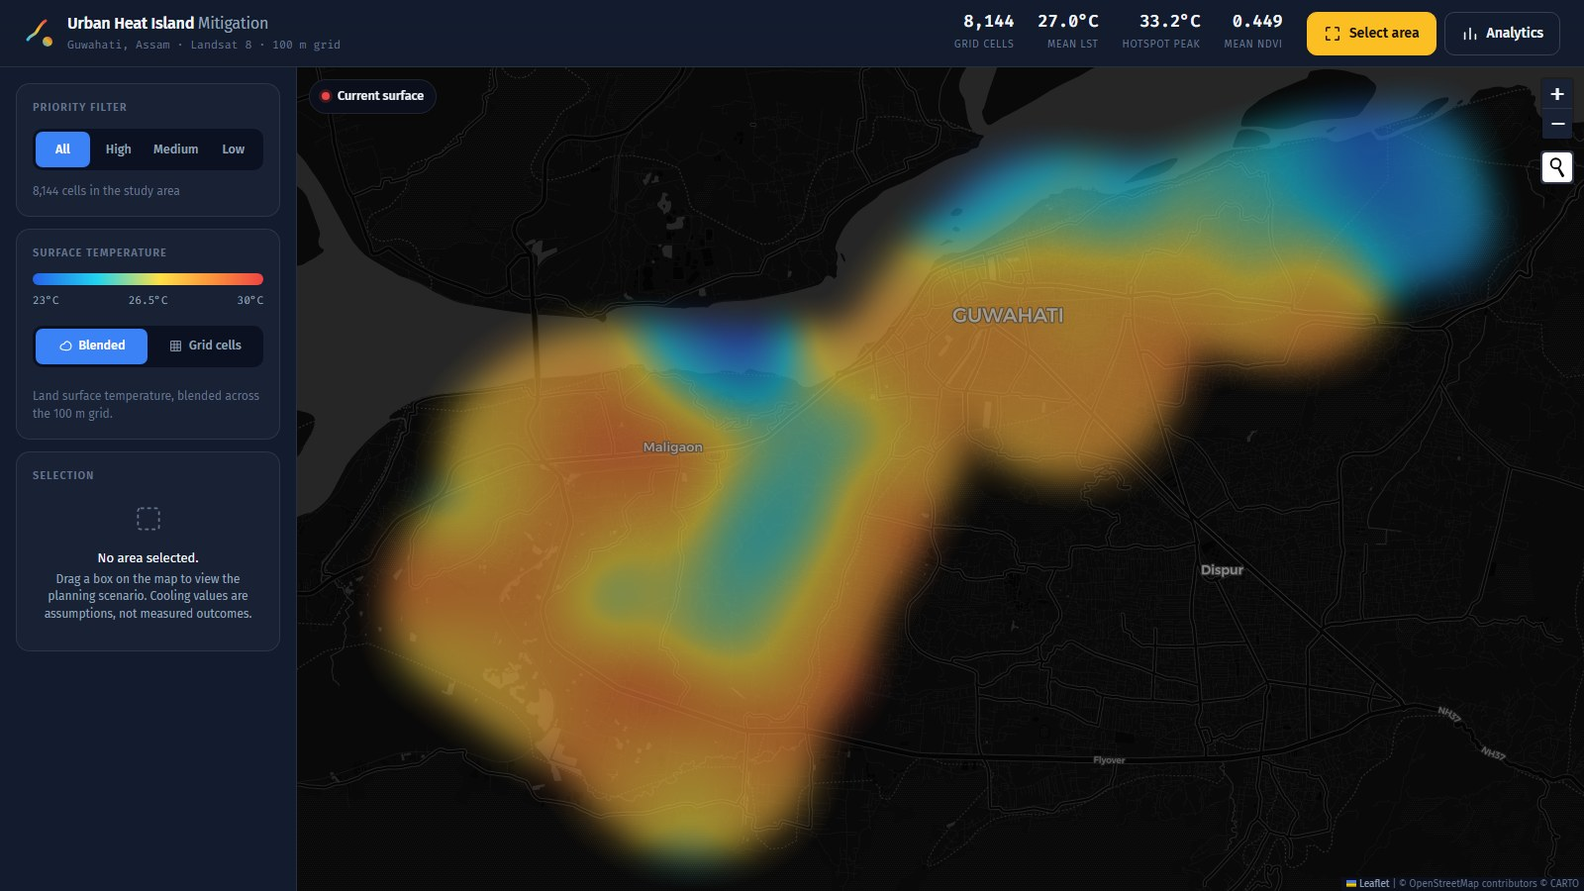
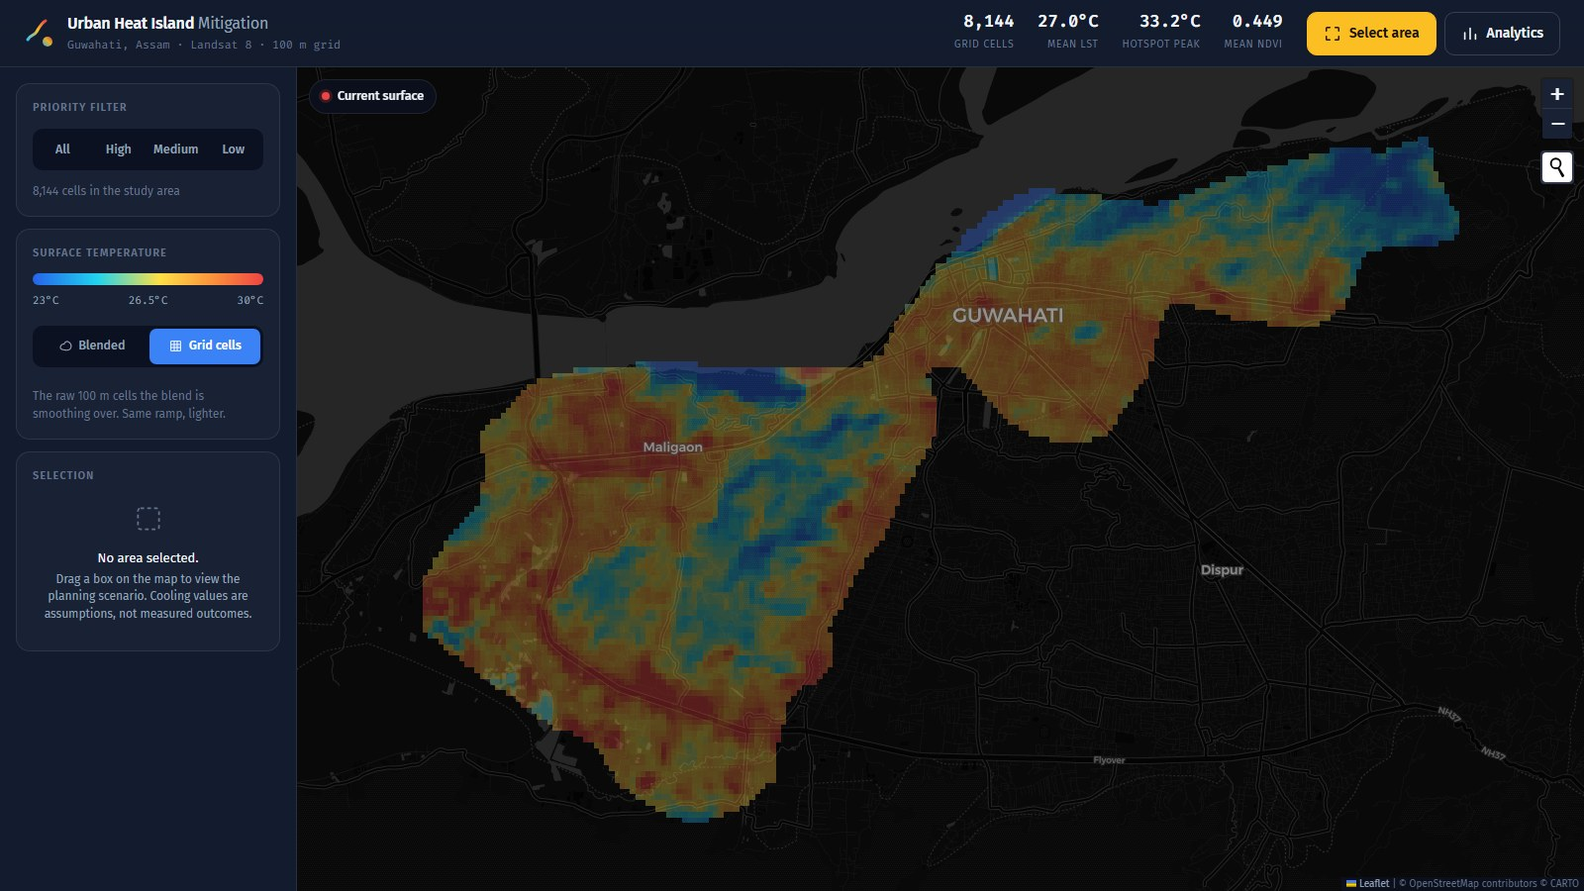
Fix grid-view seams; enrich the diagram; use grid screenshots
heatField: the grid view drew 1 px transparent columns roughly every 22 px,
so the basemap showed through as dark vertical seams across a field that
should be continuous. Cause was Leaflet, not the lattice: both
latLngToContainerPoint and the cell-size probe built on it call _round()
internally, so cw arrived as a whole number and the fraction that decides
whether a given pair of neighbours sits 5 or 6 px apart was already gone.
Measure with map.project() instead, which does not round, and round the
width up so cells may overlap by a pixel. Overlap is free here - the fills
are opaque within the layer, composited once at FIELD.gridOpacity - while
a gap is not. Verified: zero dark columns remain across the study area.

Diagram: each node now carries three lines rather than two, so it states
the sensors, the model's five features, the honest R2, and the funnel -
8,144 cells to 4,157 eligible to 249 funded - on the arrows and in the
Decision Support node. The dashboard node names the Street View link.

Deck: both screenshots recaptured in grid mode, so the slides show real
100 m cells instead of a smoothed cloud. Safety and trust gains a fourth
card for ground-truth verification, and the demo caption points at it.

Changed region(s): [[0.2188, 0.0933, 0.9688, 0.9956], [0.0, 0.3422, 0.1875, 0.4667], [0.0, 0.1244, 0.0625, 0.1867]]

diff --git a/presentation/architecture.html b/presentation/architecture.html
@@ -2,28 +2,23 @@
 <title>Pipeline architecture — Urban Heat Island Mitigation</title>
 <link href="https://fonts.googleapis.com/css2?family=Fira+Code:wght@400;500;600&family=Fira+Sans:wght@400;500;600&display=swap" rel="stylesheet">
 <style>
-  :root {
-    --paper:  #0B1120;
-    --ink:    #F1F5F9;
-    --muted:  #94A3B8;
-    --soft:   #64748B;
-    --accent: #FBBF24;
-  }
-  html, body { margin: 0; padding: 0; background: var(--paper); }
+  html, body { margin: 0; padding: 0; background: #0B1120; }
   body { display: flex; align-items: center; justify-content: center; min-height: 100vh; }
-  svg { display: block; width: 1440px; height: 560px; }
+  svg { display: block; width: 1440px; height: 580px; }
 </style>
 
 <!-- Architecture diagram, diagram-design system, skinned to the dashboard palette
      (frontend/style.css tokens). Fira Sans / Fira Code stand in for Geist so the
      diagram matches the deck and the dashboard it describes.
 
-     The canvas is 1440x560 (~2.6:1) to fit the deck's content area under the
-     slide heading without letterboxing. -->
-<svg viewBox="0 0 1440 560" role="img" aria-labelledby="uhi-arch-title uhi-arch-desc"
+     Each node carries three lines: what it is, what it runs on, and the number a
+     judge would otherwise have to ask for. The arrows carry the funnel —
+     8,144 cells in, 4,157 eligible, 249 funded — so the drop-off is legible
+     without a second chart. Canvas is ~2.5:1 to fit the deck's content area. -->
+<svg viewBox="0 0 1440 580" role="img" aria-labelledby="uhi-arch-title uhi-arch-desc"
      xmlns="http://www.w3.org/2000/svg">
   <title id="uhi-arch-title">Urban Heat Island pipeline architecture</title>
-  <desc id="uhi-arch-desc">Remote sensing feeds two branches: a machine-learning branch that ends in a metrics report nothing downstream consumes, and a decision-support branch whose ranked, costed output drives the dashboard. Decision support, not the model, produces the recommendation.</desc>
+  <desc id="uhi-arch-desc">Remote sensing feeds two branches: a machine-learning branch that ends in a metrics report used only as a diagnostic, and a decision-support branch whose land-cover gate narrows 8,144 cells to 4,157 eligible and 249 funded, driving the dashboard. Decision support, not the model, produces the recommendation.</desc>
 
   <defs>
     <marker id="arrow" markerWidth="8" markerHeight="6" refX="7" refY="3" orient="auto">
@@ -37,91 +32,96 @@
     </marker>
   </defs>
 
-  <rect width="1440" height="560" fill="#0B1120"/>
+  <rect width="1440" height="580" fill="#0B1120"/>
 
   <!-- ============ arrows first (z-order: lines behind boxes) ============ -->
 
-  <!-- Remote Sensing -> Machine Learning. The two exits are fanned 48px apart so
-       neither connector hides the other. -->
-  <path d="M 248,256 H 536 Q 544,256 544,248 V 168" fill="none" stroke="#94A3B8" stroke-width="1.2" marker-end="url(#arrow)"/>
-  <rect x="356" y="236" width="72" height="14" rx="2" fill="#0B1120"/>
-  <text x="392" y="247" fill="#64748B" font-size="10" font-family="'Fira Code', monospace" text-anchor="middle" letter-spacing="0.08em">FEATURES</text>
+  <!-- Remote Sensing -> Machine Learning. Exits are fanned 48 px apart so neither
+       connector hides the other. -->
+  <path d="M 264,268 H 552 Q 560,268 560,260 V 176" fill="none" stroke="#94A3B8" stroke-width="1.2" marker-end="url(#arrow)"/>
+  <rect x="360" y="248" width="96" height="14" rx="2" fill="#0B1120"/>
+  <text x="408" y="259" fill="#64748B" font-size="10" font-family="'Fira Code', monospace" text-anchor="middle" letter-spacing="0.08em">5 FEATURES</text>
 
   <!-- Remote Sensing -> Decision Support -->
-  <path d="M 248,304 H 536 Q 544,304 544,312 V 344" fill="none" stroke="#94A3B8" stroke-width="1.2" marker-end="url(#arrow)"/>
-  <rect x="348" y="284" width="88" height="14" rx="2" fill="#0B1120"/>
-  <text x="392" y="295" fill="#64748B" font-size="10" font-family="'Fira Code', monospace" text-anchor="middle" letter-spacing="0.08em">GRID + LAND</text>
+  <path d="M 264,316 H 552 Q 560,316 560,324 V 368" fill="none" stroke="#94A3B8" stroke-width="1.2" marker-end="url(#arrow)"/>
+  <rect x="356" y="296" width="104" height="14" rx="2" fill="#0B1120"/>
+  <text x="408" y="307" fill="#94A3B8" font-size="10" font-family="'Fira Code', monospace" text-anchor="middle" letter-spacing="0.08em">8,144 CELLS</text>
 
-  <!-- Machine Learning -> metrics.json (dashed: reported, not consumed) -->
-  <path d="M 648,116 H 792" fill="none" stroke="#64748B" stroke-width="1" stroke-dasharray="4,3" marker-end="url(#arrow-soft)"/>
-  <rect x="688" y="96" width="64" height="14" rx="2" fill="#0B1120"/>
-  <text x="720" y="107" fill="#64748B" font-size="10" font-family="'Fira Code', monospace" text-anchor="middle" letter-spacing="0.08em">SCORES</text>
+  <!-- Machine Learning -> metrics.json (dashed: diagnostic, not consumed) -->
+  <path d="M 672,116 H 816" fill="none" stroke="#64748B" stroke-width="1" stroke-dasharray="4,3" marker-end="url(#arrow-soft)"/>
+  <rect x="712" y="96" width="64" height="14" rx="2" fill="#0B1120"/>
+  <text x="744" y="107" fill="#64748B" font-size="10" font-family="'Fira Code', monospace" text-anchor="middle" letter-spacing="0.08em">SCORES</text>
 
   <!-- Decision Support -> Dashboard (accent: the load-bearing hand-off) -->
-  <path d="M 648,396 H 792" fill="none" stroke="#FBBF24" stroke-width="1.4" marker-end="url(#arrow-accent)"/>
-  <rect x="684" y="376" width="72" height="14" rx="2" fill="#0B1120"/>
-  <text x="720" y="387" fill="#FBBF24" font-size="10" font-family="'Fira Code', monospace" text-anchor="middle" letter-spacing="0.08em">RANKING</text>
+  <path d="M 672,428 H 816" fill="none" stroke="#FBBF24" stroke-width="1.4" marker-end="url(#arrow-accent)"/>
+  <rect x="696" y="408" width="96" height="14" rx="2" fill="#0B1120"/>
+  <text x="744" y="419" fill="#FBBF24" font-size="10" font-family="'Fira Code', monospace" text-anchor="middle" letter-spacing="0.08em">249 FUNDED</text>
 
   <!-- dead-end stub after metrics.json -->
-  <path d="M 1000,116 H 1060" fill="none" stroke="#64748B" stroke-width="1" stroke-dasharray="4,3"/>
-  <line x1="1064" y1="100" x2="1064" y2="132" stroke="#64748B" stroke-width="1.6"/>
+  <path d="M 1040,116 H 1100" fill="none" stroke="#64748B" stroke-width="1" stroke-dasharray="4,3"/>
+  <line x1="1104" y1="100" x2="1104" y2="132" stroke="#64748B" stroke-width="1.6"/>
 
   <!-- ============ nodes ============ -->
 
   <!-- Remote Sensing -->
-  <rect x="40" y="228" width="208" height="104" rx="8" fill="#0B1120"/>
-  <rect x="40" y="228" width="208" height="104" rx="8" fill="#131C2E" stroke="rgba(255,255,255,0.16)" stroke-width="1"/>
-  <rect x="52" y="240" width="44" height="16" rx="2" fill="none" stroke="rgba(255,255,255,0.22)" stroke-width="0.8"/>
-  <text x="74" y="251" fill="#94A3B8" font-size="9" font-family="'Fira Code', monospace" text-anchor="middle" letter-spacing="0.10em">DATA</text>
-  <text x="144" y="288" fill="#F1F5F9" font-size="16" font-weight="600" font-family="'Fira Sans', sans-serif" text-anchor="middle">Remote Sensing</text>
-  <text x="144" y="312" fill="#94A3B8" font-size="11" font-family="'Fira Code', monospace" text-anchor="middle">Earth Engine · QGIS</text>
+  <rect x="40" y="232" width="224" height="120" rx="8" fill="#0B1120"/>
+  <rect x="40" y="232" width="224" height="120" rx="8" fill="#131C2E" stroke="rgba(255,255,255,0.16)" stroke-width="1"/>
+  <rect x="52" y="244" width="44" height="16" rx="2" fill="none" stroke="rgba(255,255,255,0.22)" stroke-width="0.8"/>
+  <text x="74" y="255" fill="#94A3B8" font-size="9" font-family="'Fira Code', monospace" text-anchor="middle" letter-spacing="0.10em">DATA</text>
+  <text x="152" y="288" fill="#F1F5F9" font-size="16" font-weight="600" font-family="'Fira Sans', sans-serif" text-anchor="middle">Remote Sensing</text>
+  <text x="152" y="310" fill="#94A3B8" font-size="11" font-family="'Fira Code', monospace" text-anchor="middle">Landsat 8 · ESA WorldCover</text>
+  <text x="152" y="330" fill="#64748B" font-size="10" font-family="'Fira Code', monospace" text-anchor="middle">Earth Engine · QGIS · 100 m</text>
 
   <!-- Machine Learning -->
-  <rect x="440" y="64" width="208" height="104" rx="8" fill="#0B1120"/>
-  <rect x="440" y="64" width="208" height="104" rx="8" fill="#131C2E" stroke="rgba(255,255,255,0.16)" stroke-width="1"/>
-  <rect x="452" y="76" width="52" height="16" rx="2" fill="none" stroke="rgba(255,255,255,0.22)" stroke-width="0.8"/>
-  <text x="478" y="87" fill="#94A3B8" font-size="9" font-family="'Fira Code', monospace" text-anchor="middle" letter-spacing="0.10em">MODEL</text>
-  <text x="544" y="124" fill="#F1F5F9" font-size="16" font-weight="600" font-family="'Fira Sans', sans-serif" text-anchor="middle">Machine Learning</text>
-  <text x="544" y="148" fill="#94A3B8" font-size="11" font-family="'Fira Code', monospace" text-anchor="middle">RandomForest</text>
+  <rect x="448" y="56" width="224" height="120" rx="8" fill="#0B1120"/>
+  <rect x="448" y="56" width="224" height="120" rx="8" fill="#131C2E" stroke="rgba(255,255,255,0.16)" stroke-width="1"/>
+  <rect x="460" y="68" width="52" height="16" rx="2" fill="none" stroke="rgba(255,255,255,0.22)" stroke-width="0.8"/>
+  <text x="486" y="79" fill="#94A3B8" font-size="9" font-family="'Fira Code', monospace" text-anchor="middle" letter-spacing="0.10em">MODEL</text>
+  <text x="560" y="112" fill="#F1F5F9" font-size="16" font-weight="600" font-family="'Fira Sans', sans-serif" text-anchor="middle">Machine Learning</text>
+  <text x="560" y="134" fill="#94A3B8" font-size="11" font-family="'Fira Code', monospace" text-anchor="middle">RandomForest</text>
+  <text x="560" y="154" fill="#64748B" font-size="10" font-family="'Fira Code', monospace" text-anchor="middle">NDBI · NDVI · veg · lat · lon</text>
 
   <!-- metrics.json (terminates) -->
-  <rect x="792" y="64" width="208" height="104" rx="8" fill="#0B1120"/>
-  <rect x="792" y="64" width="208" height="104" rx="8" fill="rgba(241,245,249,0.02)" stroke="rgba(255,255,255,0.10)" stroke-width="1" stroke-dasharray="4,3"/>
-  <rect x="804" y="76" width="56" height="16" rx="2" fill="none" stroke="rgba(255,255,255,0.16)" stroke-width="0.8"/>
-  <text x="832" y="87" fill="#64748B" font-size="9" font-family="'Fira Code', monospace" text-anchor="middle" letter-spacing="0.10em">REPORT</text>
-  <text x="896" y="124" fill="#94A3B8" font-size="16" font-weight="600" font-family="'Fira Sans', sans-serif" text-anchor="middle">metrics.json</text>
-  <text x="896" y="148" fill="#64748B" font-size="10" font-family="'Fira Code', monospace" text-anchor="middle">R² 0.90 random · 0.51 blocked</text>
+  <rect x="816" y="56" width="224" height="120" rx="8" fill="#0B1120"/>
+  <rect x="816" y="56" width="224" height="120" rx="8" fill="rgba(241,245,249,0.02)" stroke="rgba(255,255,255,0.10)" stroke-width="1" stroke-dasharray="4,3"/>
+  <rect x="828" y="68" width="56" height="16" rx="2" fill="none" stroke="rgba(255,255,255,0.16)" stroke-width="0.8"/>
+  <text x="856" y="79" fill="#64748B" font-size="9" font-family="'Fira Code', monospace" text-anchor="middle" letter-spacing="0.10em">REPORT</text>
+  <text x="928" y="112" fill="#94A3B8" font-size="16" font-weight="600" font-family="'Fira Sans', sans-serif" text-anchor="middle">metrics.json</text>
+  <text x="928" y="134" fill="#94A3B8" font-size="11" font-family="'Fira Code', monospace" text-anchor="middle">R² 0.51 spatial-block</text>
+  <text x="928" y="154" fill="#64748B" font-size="10" font-family="'Fira Code', monospace" text-anchor="middle">0.90 random — the leaky one</text>
 
   <!-- Decision Support — FOCAL -->
-  <rect x="440" y="344" width="208" height="104" rx="8" fill="#0B1120"/>
-  <rect x="440" y="344" width="208" height="104" rx="8" fill="rgba(251,191,36,0.10)" stroke="#FBBF24" stroke-width="1.2"/>
-  <rect x="452" y="356" width="48" height="16" rx="2" fill="none" stroke="rgba(251,191,36,0.45)" stroke-width="0.8"/>
-  <text x="476" y="367" fill="#FBBF24" font-size="9" font-family="'Fira Code', monospace" text-anchor="middle" letter-spacing="0.10em">RULES</text>
-  <text x="544" y="404" fill="#F1F5F9" font-size="16" font-weight="600" font-family="'Fira Sans', sans-serif" text-anchor="middle">Decision Support</text>
-  <text x="544" y="428" fill="#94A3B8" font-size="11" font-family="'Fira Code', monospace" text-anchor="middle">land-cover gate · cost</text>
+  <rect x="448" y="368" width="224" height="120" rx="8" fill="#0B1120"/>
+  <rect x="448" y="368" width="224" height="120" rx="8" fill="rgba(251,191,36,0.10)" stroke="#FBBF24" stroke-width="1.2"/>
+  <rect x="460" y="380" width="48" height="16" rx="2" fill="none" stroke="rgba(251,191,36,0.45)" stroke-width="0.8"/>
+  <text x="484" y="391" fill="#FBBF24" font-size="9" font-family="'Fira Code', monospace" text-anchor="middle" letter-spacing="0.10em">RULES</text>
+  <text x="560" y="424" fill="#F1F5F9" font-size="16" font-weight="600" font-family="'Fira Sans', sans-serif" text-anchor="middle">Decision Support</text>
+  <text x="560" y="446" fill="#94A3B8" font-size="11" font-family="'Fira Code', monospace" text-anchor="middle">land-cover gate · cost · rank</text>
+  <text x="560" y="466" fill="#FBBF24" font-size="10" font-family="'Fira Code', monospace" text-anchor="middle">8,144 → 4,157 eligible → 249</text>
 
   <!-- Dashboard -->
-  <rect x="792" y="344" width="208" height="104" rx="8" fill="#0B1120"/>
-  <rect x="792" y="344" width="208" height="104" rx="8" fill="#131C2E" stroke="rgba(255,255,255,0.16)" stroke-width="1"/>
-  <rect x="804" y="356" width="32" height="16" rx="2" fill="none" stroke="rgba(255,255,255,0.22)" stroke-width="0.8"/>
-  <text x="820" y="367" fill="#94A3B8" font-size="9" font-family="'Fira Code', monospace" text-anchor="middle" letter-spacing="0.10em">UI</text>
-  <text x="896" y="404" fill="#F1F5F9" font-size="16" font-weight="600" font-family="'Fira Sans', sans-serif" text-anchor="middle">Dashboard</text>
-  <text x="896" y="428" fill="#94A3B8" font-size="11" font-family="'Fira Code', monospace" text-anchor="middle">Leaflet · heat field</text>
+  <rect x="816" y="368" width="224" height="120" rx="8" fill="#0B1120"/>
+  <rect x="816" y="368" width="224" height="120" rx="8" fill="#131C2E" stroke="rgba(255,255,255,0.16)" stroke-width="1"/>
+  <rect x="828" y="380" width="32" height="16" rx="2" fill="none" stroke="rgba(255,255,255,0.22)" stroke-width="0.8"/>
+  <text x="844" y="391" fill="#94A3B8" font-size="9" font-family="'Fira Code', monospace" text-anchor="middle" letter-spacing="0.10em">UI</text>
+  <text x="928" y="424" fill="#F1F5F9" font-size="16" font-weight="600" font-family="'Fira Sans', sans-serif" text-anchor="middle">Dashboard</text>
+  <text x="928" y="446" fill="#94A3B8" font-size="11" font-family="'Fira Code', monospace" text-anchor="middle">blended field · grid cells</text>
+  <text x="928" y="466" fill="#34D399" font-size="10" font-family="'Fira Code', monospace" text-anchor="middle">every cell → Google Street View</text>
 
   <!-- ============ editorial annotation ============ -->
-  <text x="1088" y="108" fill="#94A3B8" font-size="15" font-style="italic" font-family="Georgia, 'Times New Roman', serif">screening signal —</text>
-  <text x="1088" y="132" fill="#94A3B8" font-size="15" font-style="italic" font-family="Georgia, 'Times New Roman', serif">not the decision path</text>
+  <text x="1128" y="108" fill="#94A3B8" font-size="15" font-style="italic" font-family="Georgia, 'Times New Roman', serif">screening signal —</text>
+  <text x="1128" y="132" fill="#94A3B8" font-size="15" font-style="italic" font-family="Georgia, 'Times New Roman', serif">not the decision path</text>
 
   <!-- ============ legend strip ============ -->
-  <line x1="40" y1="492" x2="1400" y2="492" stroke="rgba(255,255,255,0.10)" stroke-width="0.8"/>
-  <text x="40" y="520" fill="#64748B" font-size="10" font-family="'Fira Code', monospace" letter-spacing="0.14em">LEGEND</text>
+  <line x1="40" y1="512" x2="1400" y2="512" stroke="rgba(255,255,255,0.10)" stroke-width="0.8"/>
+  <text x="40" y="540" fill="#64748B" font-size="10" font-family="'Fira Code', monospace" letter-spacing="0.14em">LEGEND</text>
 
-  <line x1="132" y1="516" x2="172" y2="516" stroke="#94A3B8" stroke-width="1.2" marker-end="url(#arrow)"/>
-  <text x="184" y="520" fill="#94A3B8" font-size="11" font-family="'Fira Sans', sans-serif">The decision path</text>
+  <line x1="132" y1="536" x2="172" y2="536" stroke="#94A3B8" stroke-width="1.2" marker-end="url(#arrow)"/>
+  <text x="184" y="540" fill="#94A3B8" font-size="11" font-family="'Fira Sans', sans-serif">The decision path</text>
 
-  <line x1="368" y1="516" x2="408" y2="516" stroke="#64748B" stroke-width="1" stroke-dasharray="4,3" marker-end="url(#arrow-soft)"/>
-  <text x="420" y="520" fill="#94A3B8" font-size="11" font-family="'Fira Sans', sans-serif">Diagnostic — reported, not consumed</text>
+  <line x1="368" y1="536" x2="408" y2="536" stroke="#64748B" stroke-width="1" stroke-dasharray="4,3" marker-end="url(#arrow-soft)"/>
+  <text x="420" y="540" fill="#94A3B8" font-size="11" font-family="'Fira Sans', sans-serif">Diagnostic — reported, not consumed</text>
 
-  <rect x="760" y="508" width="16" height="16" rx="3" fill="rgba(251,191,36,0.10)" stroke="#FBBF24" stroke-width="1.2"/>
-  <text x="788" y="520" fill="#94A3B8" font-size="11" font-family="'Fira Sans', sans-serif">Auditable rule + cost engine — every recommendation traceable</text>
+  <rect x="760" y="528" width="16" height="16" rx="3" fill="rgba(251,191,36,0.10)" stroke="#FBBF24" stroke-width="1.2"/>
+  <text x="788" y="540" fill="#94A3B8" font-size="11" font-family="'Fira Sans', sans-serif">Auditable rule + cost engine — every recommendation traceable to a rule and a rate</text>
 </svg>

diff --git a/frontend/js/heatField.js b/frontend/js/heatField.js
@@ -175,24 +175,44 @@ const HeatField = L.Layer.extend({
     const cells = this._cells;
 
     /* The lattice is regular, so one probe sizes every box and each cell then
-       costs a single projection instead of two. */
+       costs a single projection instead of two.
+
+       map.project(), not latLngToContainerPoint(): the latter calls _round() on
+       the way through, so measuring a cell with it yields a whole number of
+       pixels and throws away the fraction that decides whether a given pair of
+       neighbours sits 5 or 6 px apart. */
     const c0 = cells[0];
-    const tl0 = map.latLngToContainerPoint(L.latLng(c0.bounds[1][0], c0.bounds[0][1]));
-    const br0 = map.latLngToContainerPoint(L.latLng(c0.bounds[0][0], c0.bounds[1][1]));
+    const tl0 = map.project(L.latLng(c0.bounds[1][0], c0.bounds[0][1]));
+    const br0 = map.project(L.latLng(c0.bounds[0][0], c0.bounds[1][1]));
     const cw = Math.max(1, br0.x - tl0.x);
     const ch = Math.max(1, br0.y - tl0.y);
 
     /* Below ~7 px the gap between boxes is most of the box, so the grid reads as
        a mesh of lines rather than a temperature map. Butt the cells together
-       instead and let the colour carry it. */
+       instead and let the colour carry it; above it, inset by a pixel so the
+       lattice is legible as a lattice. */
     const spaced = Math.min(cw, ch) >= 7;
-    const fw = spaced ? cw - 1 : cw + 0.5;
-    const fh = spaced ? ch - 1 : ch + 0.5;
+
+    /* Round UP when butting cells together, and accept up to a pixel of overlap.
+       Leaflet's latLngToContainerPoint calls _round() internally, so p.x arrives
+       already snapped to an integer and the true fractional position is gone.
+       Neighbouring cells therefore step by either floor(cw) or ceil(cw) px while
+       a fixed-width rect can only be one of the two — every time the fraction
+       accumulates past a pixel, the wider step leaves a one-pixel hole and the
+       basemap shows through. Those holes line up into vertical seams across the
+       field (measured: every ~22 px at city zoom, cells being ~5.2 px).
+       Overlapping is free here because the fills are opaque within the layer —
+       the canvas is composited once, at FIELD.gridOpacity — so a cell painted
+       over its neighbour's edge changes nothing but which colour wins on that
+       boundary pixel. */
+    const fw = spaced ? Math.max(1, Math.round(cw) - 1) : Math.ceil(cw);
+    const fh = spaced ? Math.max(1, Math.round(ch) - 1) : Math.ceil(ch);
 
     for (const cell of cells) {
       const p = map.latLngToContainerPoint(L.latLng(cell.bounds[1][0], cell.bounds[0][1]));
-      const x = p.x + padX, y = p.y + padY;
-      if (x + cw < 0 || y + ch < 0 || x > w || y > h) continue;
+      const x = Math.round(p.x + padX);
+      const y = Math.round(p.y + padY);
+      if (x + fw < 0 || y + fh < 0 || x > w || y > h) continue;
       const rgb = rampColor(normTemp(cell.temp));
       ctx.fillStyle = `rgb(${rgb[0]},${rgb[1]},${rgb[2]})`;
       ctx.fillRect(x, y, fw, fh);

diff --git a/presentation/build_deck.py b/presentation/build_deck.py
@@ -417,8 +417,8 @@ def slide_demo(prs, f, n, total):
                              width=int(pic_w), height=int(pic_h))
 
     text(s, MARGIN, Inches(6.46), Inches(11.9), Inches(0.4),
-         [("Current surface on the left, planning scenario on the right — with the "
-           "selection's cell count, mean temperature and cost read out live.",
+         [("Shown in grid mode — every square is one real 100 m cell. Click any of "
+           "them for its place name and a Google Street View link.",
            13, MUTED, False, UI)], align=PP_ALIGN.CENTER)
     footer(s, n, total, link=LINKS["dashboard"], link_label="try it live")
 
@@ -430,28 +430,31 @@ def slide_safety(prs, f, n, total):
 
     blocks = [
         ("NO WORK ON WATER OR WETLAND", SUCCESS,
-         f"{FIGURES['excluded_water']} water and wetland cells are excluded in code, "
-         "not by convention. ESA WorldCover land cover gates every measure."),
+         f"{FIGURES['excluded_water']} water and wetland cells excluded in code, not "
+         "by convention. ESA WorldCover gates every measure."),
         ("NO PLANTING ON EXISTING CANOPY", SUCCESS,
-         f"{FIGURES['excluded_green']} cells already classified as tree cover receive "
-         "no planting recommendation. The gate is asserted by tests."),
+         f"{FIGURES['excluded_green']} cells already classified as tree cover get no "
+         "planting recommendation. The gate is asserted by tests."),
+        ("CHECK IT ON THE GROUND", ACCENT,
+         "Every cell links straight to Google Street View at its own coordinates, "
+         "with the place name and the 100 m box it covers."),
         ("REPRODUCIBLE AND OPEN", PRIMARY,
          f"{FIGURES['tests']} passing tests. CI regenerates every artefact and fails "
-         "if a committed copy differs. MIT licensed, data attributed in NOTICE.md."),
+         "if a committed copy differs. MIT licensed."),
     ]
-    w = Inches(3.76)
+    w, gap = Inches(2.78), Inches(0.26)
     for i, (label, colour, body) in enumerate(blocks):
-        x = MARGIN + (w + Inches(0.31)) * i
+        x = MARGIN + (w + gap) * i
         card(s, x, Inches(2.5), w, Inches(2.72), fill=SURFACE)
         tab = s.shapes.add_shape(MSO_SHAPE.RECTANGLE, x, Inches(2.5), Inches(0.05), Inches(2.72))
         tab.fill.solid()
         tab.fill.fore_color.rgb = colour
         tab.line.fill.background()
         tab.shadow.inherit = False
-        text(s, x + Inches(0.34), Inches(2.8), w - Inches(0.68), Inches(0.5),
-             [(label, 10, colour, True, DATA)], line_spacing=1.3)
-        text(s, x + Inches(0.34), Inches(3.42), w - Inches(0.68), Inches(1.7),
-             [(body, 13, FG, False, UI)], line_spacing=1.4)
+        text(s, x + Inches(0.3), Inches(2.8), w - Inches(0.6), Inches(0.5),
+             [(label, 9.5, colour, True, DATA)], line_spacing=1.3)
+        text(s, x + Inches(0.3), Inches(3.42), w - Inches(0.6), Inches(1.8),
+             [(body, 12.5, FG, False, UI)], line_spacing=1.4)
 
     claim(s, Inches(5.52),
           "A tool a city can act on has to be wrong safely. These rules are the "
